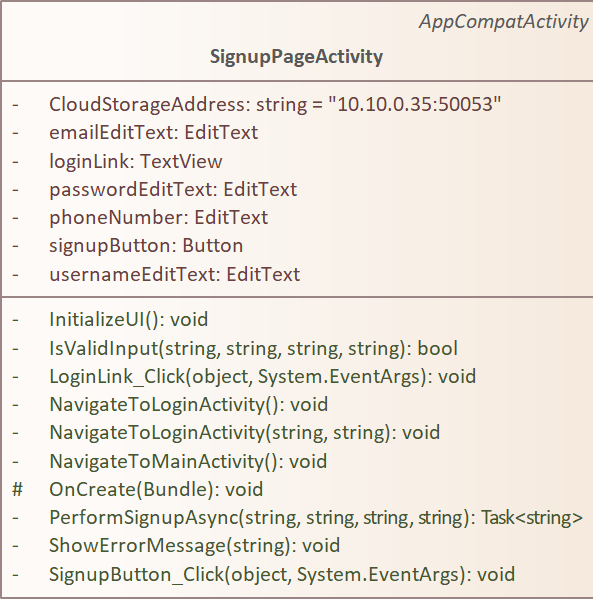
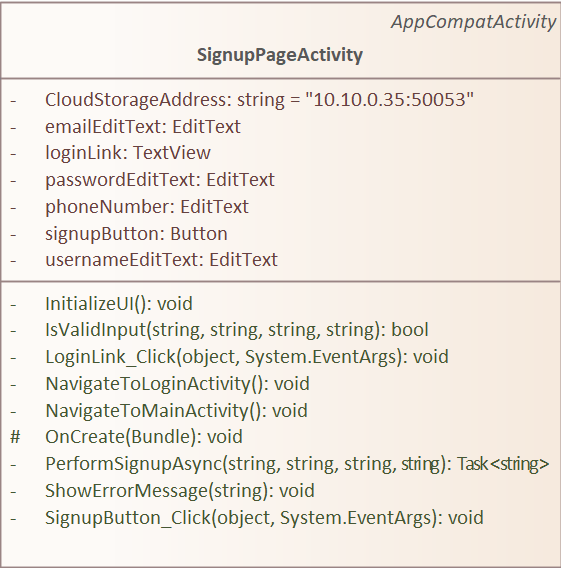
modified - remove unnecessary function, modified service error msg

diff --git a/client/Android/StorageAndroidClient/StorageAndroidClient/FileService.cs b/client/Android/StorageAndroidClient/StorageAndroidClient/FileService.cs
@@ -140,7 +140,14 @@ namespace StorageAndroidClient
             }
             catch (RpcException ex)
             {
-                SendBroadcast("fail", ex.Message);
+                if (ex.StatusCode == Grpc.Core.StatusCode.Unavailable || ex.StatusCode == Grpc.Core.StatusCode.DeadlineExceeded)
+                {
+                    SendBroadcast("fail", "Error connecting to the server. Try uploading the file again.");
+                }
+                else
+                {
+                    SendBroadcast("fail", ex.Message);
+                }
             }
             catch
             {
@@ -161,7 +168,14 @@ namespace StorageAndroidClient
             }
             catch (RpcException ex)
             {
-                SendBroadcast("fail", ex.Message);
+                if (ex.StatusCode == Grpc.Core.StatusCode.Unavailable || ex.StatusCode == Grpc.Core.StatusCode.DeadlineExceeded)
+                {
+                    SendBroadcast("fail", "Error connecting to the server. Try downloading the file again.");
+                }
+                else
+                {
+                    SendBroadcast("fail", ex.Message);
+                }
             }
             catch
             {
@@ -205,7 +219,14 @@ namespace StorageAndroidClient
             }
             catch (RpcException ex)
             {
-                SendBroadcast("fail", ex.Message);
+                if (ex.StatusCode == Grpc.Core.StatusCode.Unavailable || ex.StatusCode == Grpc.Core.StatusCode.DeadlineExceeded)
+                {
+                    SendBroadcast("fail", "Error connecting to the server. Try updating the file again.");
+                }
+                else 
+                {
+                    SendBroadcast("fail", ex.Message);
+                }
             }
             catch
             {
@@ -226,7 +247,14 @@ namespace StorageAndroidClient
             }
             catch (RpcException ex)
             {
-                SendBroadcast("fail", ex.Message);
+                if (ex.StatusCode == Grpc.Core.StatusCode.Unavailable || ex.StatusCode == Grpc.Core.StatusCode.DeadlineExceeded)
+                {
+                    SendBroadcast("fail", "Error connecting to the server. Try deleting the file again.");
+                }
+                else
+                {
+                    SendBroadcast("fail", ex.Message);
+                }
             }
             catch
             {

diff --git a/client/Android/StorageAndroidClient/StorageAndroidClient/Signup.cs b/client/Android/StorageAndroidClient/StorageAndroidClient/Signup.cs
@@ -137,16 +137,6 @@ namespace StorageAndroidClient
             Finish();
         }
 
-        private void NavigateToLoginActivity(string username, string password)
-        {
-            Intent intent = new Intent(this, typeof(LoginPageActivity));
-            intent.PutExtra("username", username);
-            intent.PutExtra("password", password);
-            StartActivity(intent);
-            Finish();
-        }
-
-
         private void NavigateToMainActivity()
         {
             Intent intent = new Intent(this, typeof(MainPageFileOperationsActivity));
